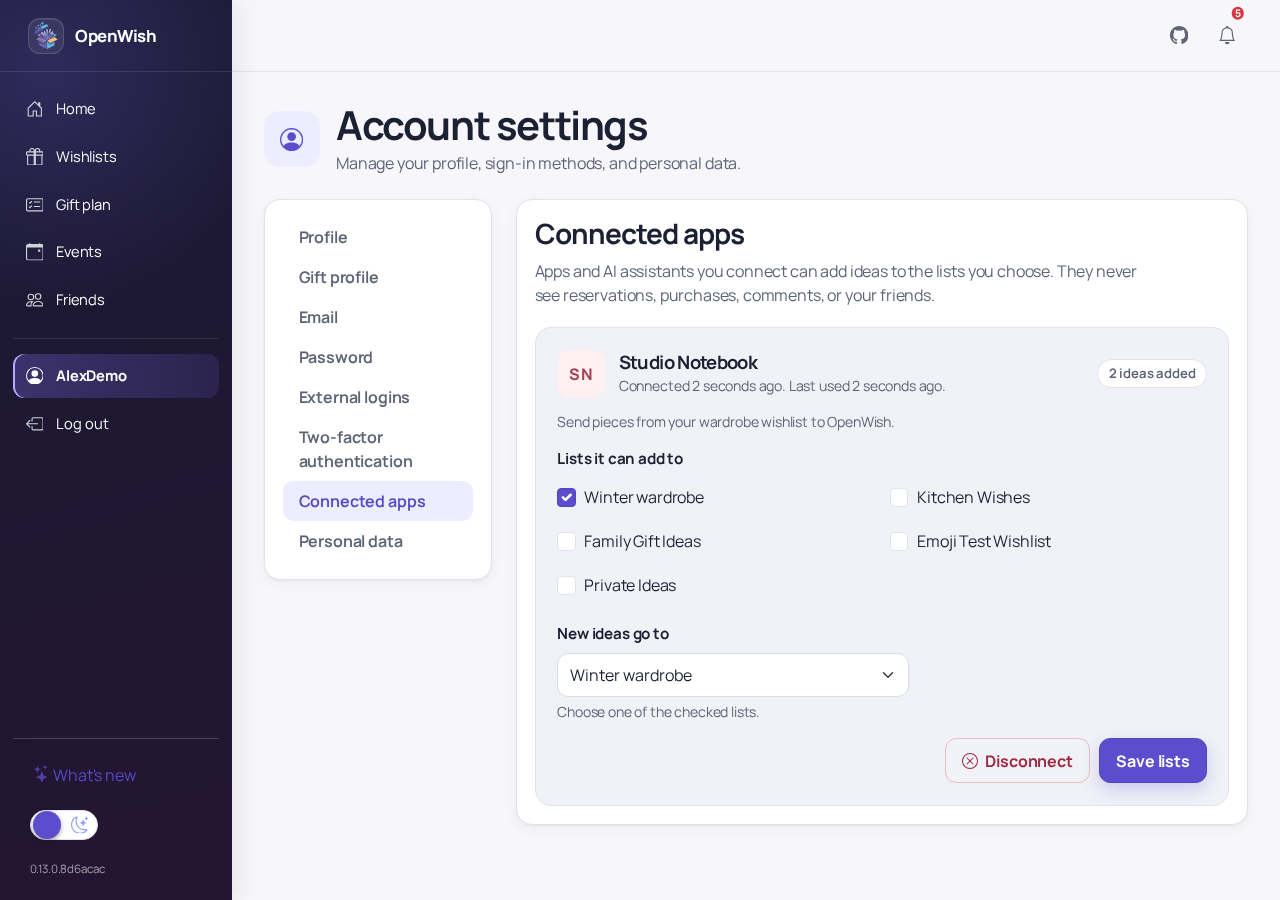
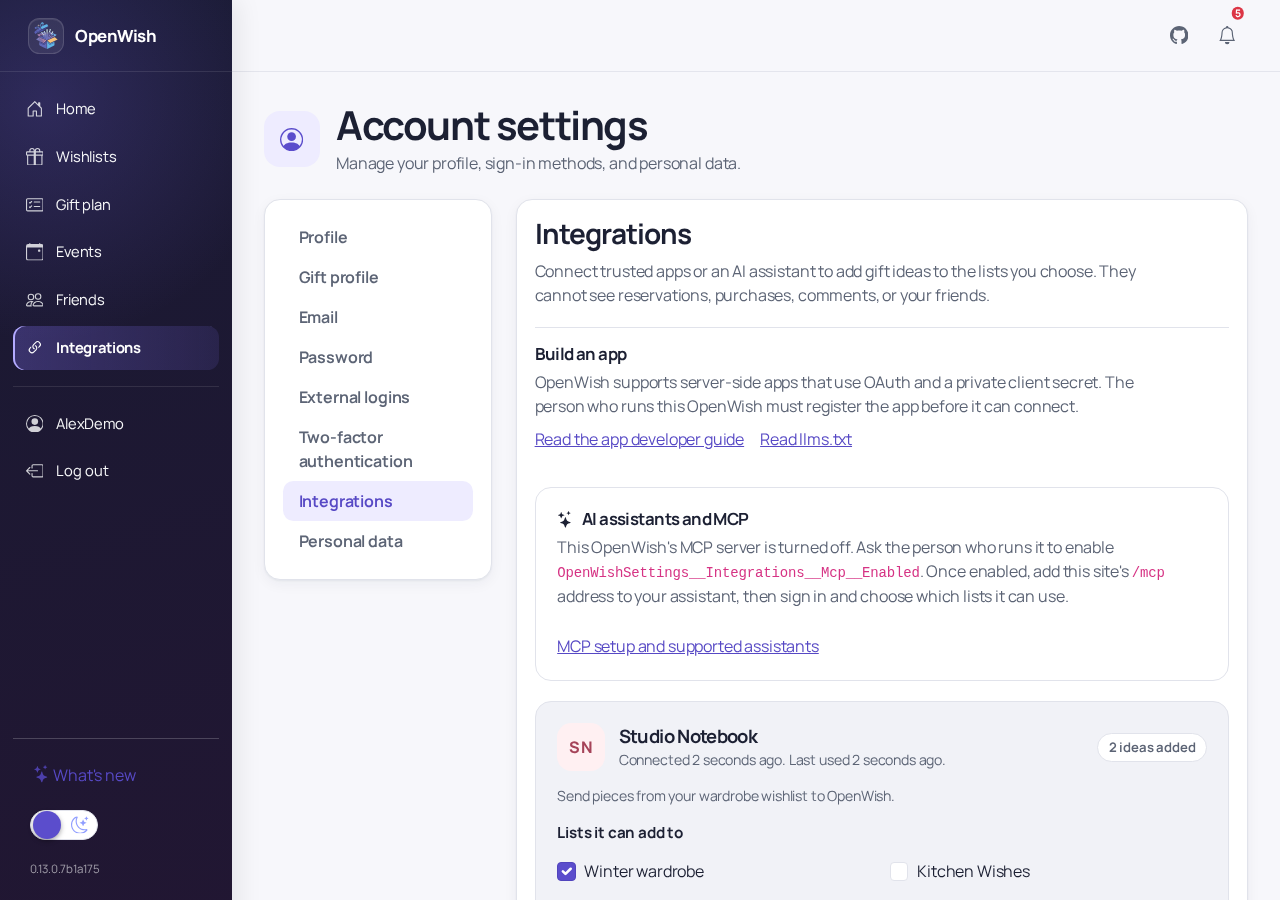
Make integrations discoverable (#167)
* Make integrations discoverable

* Avoid overlapping integration navigation state

* Avoid stale connection settings during disconnect

---------

diff --git a/src/OpenWish.Web/Components/Account/Pages/Manage/ConnectedApps.razor.css b/src/OpenWish.Web/Components/Account/Pages/Manage/ConnectedApps.razor.css
@@ -2,6 +2,29 @@
     max-width: 62ch;
 }
 
+.connected-apps-guide {
+    margin: 1.25rem 0 0;
+    padding: 1rem 0;
+    border-top: 1px solid var(--color-border-muted);
+}
+
+.connected-apps-guide h4 {
+    margin: 0 0 0.35rem;
+    font-size: 1.05rem;
+}
+
+.connected-apps-guide p {
+    max-width: 62ch;
+    margin-bottom: 0.55rem;
+    color: var(--color-text-muted);
+}
+
+.connected-apps-guide-links {
+    display: flex;
+    flex-wrap: wrap;
+    gap: 0.5rem 1rem;
+}
+
 .connected-apps {
     display: grid;
     gap: 1rem;
@@ -283,6 +306,11 @@
     flex: 0 0 auto;
     align-items: center;
     gap: 0.4rem;
+}
+
+.connected-apps-mcp-guide {
+    display: inline-block;
+    margin-top: 0.65rem;
 }
 
 .connected-app-kind {

diff --git a/src/OpenWish.Shared.Tests/Accessibility/InteractiveControlMarkupTests.cs b/src/OpenWish.Shared.Tests/Accessibility/InteractiveControlMarkupTests.cs
@@ -38,6 +38,24 @@ public class InteractiveControlMarkupTests
     }
 
     [Fact]
+    public void Integrations_AreDiscoverableAndExplainAppAndMcpSetup()
+    {
+        var navMenu = ReadComponent("OpenWish.Web", "Components", "Layout", "NavMenu.razor");
+        var accountMenu = ReadComponent("OpenWish.Web", "Components", "Account", "Shared", "ManageNavMenu.razor");
+        var page = ReadComponent("OpenWish.Web", "Components", "Account", "Pages", "Manage", "ConnectedApps.razor");
+
+        Assert.Contains("href=\"Account/Manage/ConnectedApps\"", navMenu, StringComparison.Ordinal);
+        Assert.Contains("<span>Integrations</span>", navMenu, StringComparison.Ordinal);
+        Assert.Contains("Match=\"@(IsIntegrationsPage ? NavLinkMatch.All : NavLinkMatch.Prefix)\"", navMenu, StringComparison.Ordinal);
+        Assert.Contains("\"Account/Manage/ConnectedApps\"", navMenu, StringComparison.Ordinal);
+        Assert.Contains("href=\"Account/Manage/ConnectedApps\">Integrations</NavLink>", accountMenu, StringComparison.Ordinal);
+        Assert.Contains("Read the app developer guide", page, StringComparison.Ordinal);
+        Assert.Contains("href=\"/llms.txt\"", page, StringComparison.Ordinal);
+        Assert.Contains("OpenWishSettings__Integrations__Mcp__Enabled", page, StringComparison.Ordinal);
+        Assert.Contains("sign in and choose which lists it can use", page, StringComparison.Ordinal);
+    }
+
+    [Fact]
     public void Dashboard_PersistsEachHydratedContentSection()
     {
         var markup = ReadComponent("OpenWish.Web", "Components", "Pages", "Home.razor");

diff --git a/src/OpenWish.Web.Tests/Integrations/McpConnectionTests.cs b/src/OpenWish.Web.Tests/Integrations/McpConnectionTests.cs
@@ -30,6 +30,20 @@ public sealed class McpConnectionTests(OpenWishAppFactory factory)
     private const string LoopbackRedirect = "http://127.0.0.1:33418/callback";
 
     [Fact]
+    public async Task LlmsTxt_IsPublicAndExplainsIntegrationDiscoveryAndConsent()
+    {
+        using var client = factory.CreateApiClient();
+        using var response = await client.GetAsync("llms.txt");
+        var content = await response.Content.ReadAsStringAsync();
+
+        Assert.Equal(HttpStatusCode.OK, response.StatusCode);
+        Assert.Contains("/api/integrations/v1", content);
+        Assert.Contains("OpenWishSettings__Integrations__Mcp__Enabled", content);
+        Assert.Contains("browser sign-in and consent flow", content);
+        Assert.Contains(".docs/INTEGRATIONS.md", content);
+    }
+
+    [Fact]
     public async Task UnauthenticatedRequest_ChallengesWithProtectedResourceMetadata()
     {
         using var client = factory.CreateApiClient();

diff --git a/.docs/INTEGRATIONS.md b/.docs/INTEGRATIONS.md
@@ -89,10 +89,11 @@ scheme detection instead, configure only the actual proxy's addresses in
 Do not trust arbitrary forwarded headers from the internet.
 
 OpenWish validates each entry at startup and logs a warning instead of failing
-when one is incomplete. When no app is valid, the Connected apps page is
-hidden and the OAuth endpoints report that nothing is registered. Plain HTTP
-redirect URIs are accepted for trusted home networks but logged as a warning;
-use HTTPS anywhere else.
+when one is incomplete. The Integrations page remains available in the signed-in
+navigation even when no app is registered, so people can find the setup guide
+and see whether MCP is enabled. When no app is valid, the app OAuth endpoints
+report that nothing is registered. Plain HTTP redirect URIs are accepted for
+trusted home networks but logged as a warning; use HTTPS anywhere else.
 
 For local development with Aspire, put the same keys (with `:` separators) in
 the AppHost user secrets, for example

diff --git a/.docs/releases/2026-11-07-integrations-discoverability.md b/.docs/releases/2026-11-07-integrations-discoverability.md
@@ -1,0 +1,10 @@
+# Find and connect integrations - November 7, 2026
+
+The Integrations page is now reachable from the main navigation and account
+settings, even when no apps are registered. It explains how to build a
+server-side app, links to the integration guide and public `llms.txt`, and
+shows whether this OpenWish has enabled its optional MCP server.
+
+When MCP is enabled, people can copy its address and connect through a browser
+sign-in and consent flow, then choose which lists the assistant may use. No
+password or bearer token needs to be copied into an assistant.
